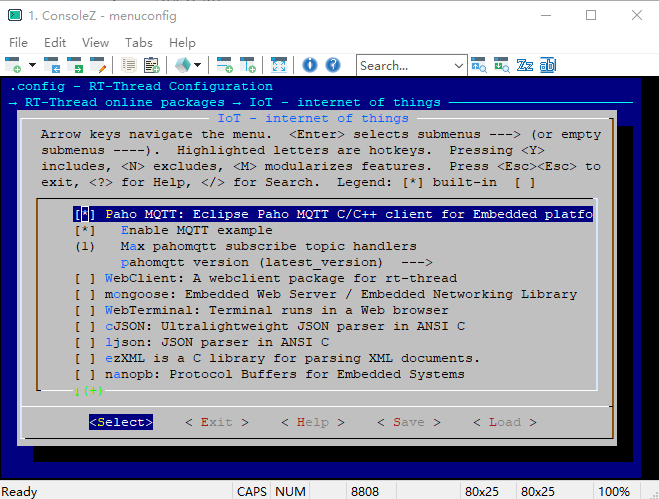
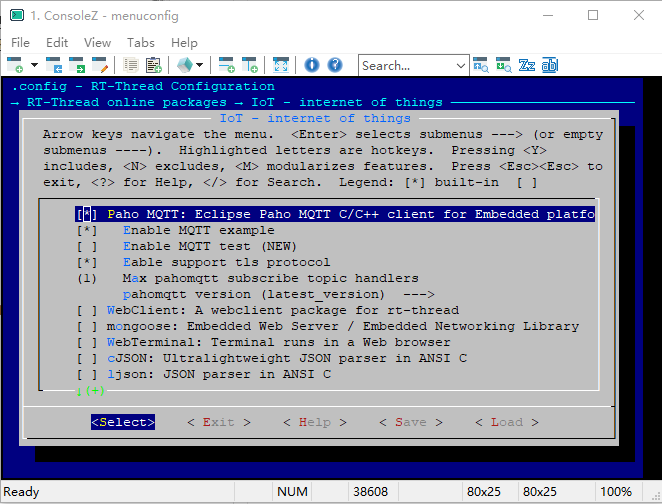
[readme] update README.md

Changed region(s): [[0.0, 0.0, 1.0, 1.0]]

diff --git a/README.md b/README.md
@@ -8,6 +8,7 @@ RT-Thread MQTT 客户端功能特点：
 - 断线自动重连
 - pipe 模型，非阻塞 API
 - 事件回调机制
+- TLS 加密传输
 
 ## 2、获取方式
 - 使用 menuconfig
@@ -16,6 +17,8 @@ RT-Thread MQTT 客户端功能特点：
       IOT internet of things --->
           [*] Paho MQTT: Eclipse Paho MQTT C/C++ client for Embedded platforms
           [*]     Enable MQTT example
+          [ ]     Enable MQTT test
+          [ ]     Enable support tls protocol
           (1)     Max pahomqtt subscribe topic handlers
                   pahomqtt version (latest_version)
 ```
@@ -23,9 +26,11 @@ RT-Thread MQTT 客户端功能特点：
 ## 3、示例介绍
 ### 3.1 获取示例
 
-- 配置使能示例选项 `Enable MQTT example`;
-- 设置 MQTT 能订阅的最大 topic 主题数量 `Max pahomqtt subscribe topic handlers`;
-- 配置包版本选为最新版 `latest_version` .
+- 配置使能示例选项 `Enable MQTT example`
+- 配置使能测试例程 `Enable MQTT test`
+- 配置使能 TLS 安全传输选项 `Enable support tls protocol`
+- 设置 MQTT 能订阅的最大 topic 主题数量 `Max pahomqtt subscribe topic handlers`
+- 配置包版本选为最新版 `latest_version`
 
 ![](./doc/image/paho-mqtt-menuconfig.png)
 
@@ -65,9 +70,64 @@ msh />mqtt sub callback: /mqtt/test hello-rtthread
 msh />
 ```
 
-## 4、 关键代码及 API 说明
+## 4、 测试介绍
 
-### 4.1 callback
+### 4.1 使能测试程序
+
+`tests/mqtt_test.c` 测试程序提供了一个`客户端`、`服务器`稳定性测试的例程，
+用户可以通过简单配置 MQTT 服务器 URI，QOS 消息服务质量，既可完成 MQTT 客户端和服务器端的测试。
+
+使用 MQTT 测试程序需要在 `menuconfig`  中使能 `Enable MQTT test`。
+
+- 配置使能测试例程选项 `Enable MQTT test`
+
+### 4.2 修改测试程序
+
+将 `tests/mqtt_test.c` 程序中的如下配置，对应修改为您要测试的 MQTT 服务器配置信息即可。
+
+```
+#define MQTT_TEST_SERVER_URI    "tcp://iot.eclipse.org:1883"
+#define MQTT_CLIENTID           "rtthread-mqtt"
+#define MQTT_USERNAME           "admin"
+#define MQTT_PASSWORD           "admin"
+#define MQTT_SUBTOPIC           "/mqtt/test"
+#define MQTT_PUBTOPIC           "/mqtt/test"
+#define MQTT_WILLMSG            "Goodbye!"
+#define MQTT_TEST_QOS           1
+```
+
+### 4.3 运行测试程序
+
+- 使用 `mqtt_test start` 命令启动 MQTT 测试程序
+- 使用 `mqtt_test stop` 命令停止 MQTT 测试程序
+
+运行日志如下所示：
+
+```
+msh />mqtt_test start
+[tls]mbedtls client struct init success...
+[MQTT] ipv4 address port: 1884
+
+...
+
+[tls]Certificate verified success...
+[MQTT] tls connect success...
+[MQTT] Subscribe #0 /mqtt/test OK!
+test start at '946725803'
+==== MQTT Stability test ====
+Server: ssl://yourserverhost.com:1884
+QoS   : 1
+Test duration(sec)            : 49463
+Number of published  packages : 98860
+Number of subscribed packages : 98860
+Packet loss rate              : 0.00%
+Number of reconnections       : 0
+==== MQTT Stability test stop ====
+```
+
+## 5、 关键代码及 API 说明
+
+### 5.1 callback
 paho-mqtt 使用 callback 的方式向用户提供 MQTT 的工作状态以及相关事件的处理， 在 `MQTTClient` 结构体实例中注册使用。
 
 |callback 名称                           |描述|
@@ -80,7 +140,7 @@ paho-mqtt 使用 callback 的方式向用户提供 MQTT 的工作状态以及相
 
 用户可以使用 `defaultMessageHandler` 回调默认处理接收到的订阅消息，也可以使用 `messageHandlers` 订阅列表，为 `messageHandlers` 数组中对应的每一个 topic 提供一个独立的订阅消息接收回调。
 
-### 4.2 MQTT_URI
+### 5.2 MQTT_URI
 
 paho-mqtt 中提供了 uri 解析功能，可以解析域名地址、ipv4和ipv6地址，可解析 `tcp://` 和 `ssl://` 类型的 URI，用户需要按照要求填写可用的 URI 即可。
 
@@ -98,7 +158,7 @@ tcp://[fe80::20c:29ff:fe9a:a07e]:1883
 ssl://[fe80::20c:29ff:fe9a:a07e]:1884
 ```
 
-### 4.3 paho_mqtt_start 接口
+### 5.3 paho_mqtt_start 接口
 - 功能： 启动 MQTT 客户端。
 
 - 函数原型：
@@ -112,7 +172,7 @@ int paho_mqtt_start(MQTTClient *client)
 |client                             |MQTT 客户端实例对象|
 |return                             |0 : 成功; 其他 : 失败|
 
-### 4.4 MQTTPublish 接口
+### 5.4 MQTTPublish 接口
 - 功能： 向指定的 topic 主题发布 MQTT 消息。
 
 - 函数原型：
@@ -128,12 +188,12 @@ int MQTTPublish(MQTTClient *c, const char *topicName, MQTTMessage *message)
 |message                            |MQTT 消息内容|
 |return                             |0 : 成功; 其他 : 失败|
 
-## 5、注意事项
+## 6、注意事项
 
 - 正确填写 `MQTT_USERNAME` 和 `MQTT_PASSWORD`  
 如果 `MQTT_USERNAME` 和 `MQTT_PASSWORD` 填写错误，MQTT 客户端无法正确连接到 MQTT 服务器。
 
-## 6、参考资料
+## 7、参考资料
 
 - [MQTT 官网](http://mqtt.org/)
 - [Paho 官网](http://www.eclipse.org/paho/downloads.php)
